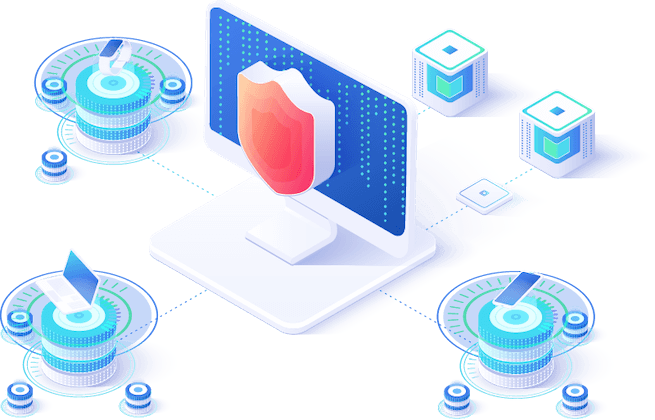
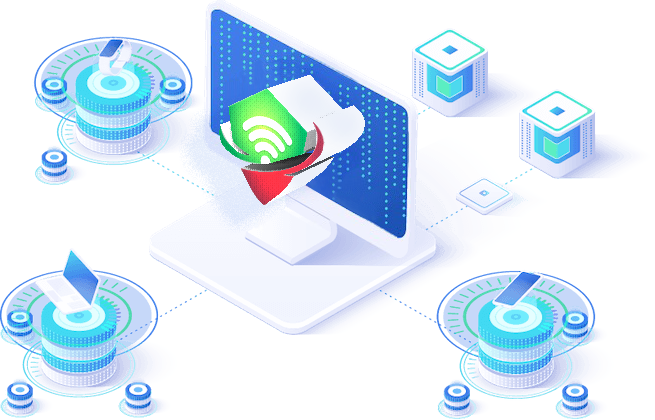
Update on home page

Changed region(s): [[0.2748, 0.0, 0.6412, 0.5571]]

diff --git a/resources/js/layouts/features.tsx b/resources/js/layouts/features.tsx
@@ -10,37 +10,37 @@ const featureList = [
     {
         icon: IconProtection,
         title: 'Powerful Protection',
-        description: 'Sed ut perspiciatis unde omnis iste natus error sit voluptatem accusantium doloremque',
+        description: 'Open-source code has fewer vulnerabilities and decreases the risk of data breaches.',
         overlay: 'linear-gradient(135deg, #febb97 0%, #f73e6e 100%)'
     },
     {
         icon: IconWorldwide,
         title: 'Borderless Connection',
-        description: 'Sed ut perspiciatis unde omnis iste natus error sit voluptatem accusantium doloremque',
+        description: ['24/7 customer support', 'Get customer support via live chat.'],
         overlay: 'linear-gradient(315deg, #2058ba 0%, #41d9f2 100%)'
     },
     {
         icon: IconDevice,
         title: 'Up to 6 Devices',
-        description: 'Sed ut perspiciatis unde omnis iste natus error sit voluptatem accusantium doloremque',
+        description: 'Get simultaneous access to 6 devices with only one subscription',
         overlay: 'linear-gradient(135deg, #3fdbb1 0%, #26b6cb 100%)'
     },
     {
         icon: IconSecurity,
         title: 'Advanced Security',
-        description: 'Sed ut perspiciatis unde omnis iste natus error sit voluptatem accusantium doloremque',
+        description: 'We won’t record IP addresses, accessed websites, Browsing histories, VPN server connections.',
         overlay: 'linear-gradient(135deg, #3fdbb1 0%, #26b6cb 100%)'
     },
     {
         icon: IconLog,
         title: 'No Log VPN',
-        description: 'Sed ut perspiciatis unde omnis iste natus error sit voluptatem accusantium doloremque',
+        description: 'We don’t monitor or record any data about your internet traffic.',
         overlay: 'linear-gradient(135deg, #febb97 0%, #f73e6e 100%)'
     },
     {
         icon: IconAnonymous,
         title: 'Surf Anonymously',
-        description: 'Sed ut perspiciatis unde omnis iste natus error sit voluptatem accusantium doloremque',
+        description: 'Pay with cryptocurrency and keep your privacy protected.',
         overlay: 'linear-gradient(315deg, #2058ba 0%, #41d9f2 100%)'
     }
 ];
@@ -66,7 +66,9 @@ export default function Features() {
                                         <img src={item.icon} alt={item.title} className="mx-auto mb-6" />
                                     </div>
                                     <h4 className="text-2xl font-bold text-white mb-9">{item.title}</h4>
-                                    <p className="text-white">{item.description}</p>
+                                    {Array.isArray(item.description) ? item.description.map((line: string, index: number) => (
+                                        <p key={index} className="text-white">{line}</p>
+                                    )) : <p className="text-white">{item.description}</p>}
                                 </div>
                             </div>
                         );

diff --git a/resources/js/layouts/mechanism.tsx b/resources/js/layouts/mechanism.tsx
@@ -6,18 +6,18 @@ import { css } from '@emotion/css';
 
 const steps = [
     {
-        title: 'Download',
-        description: 'Sed ut perspiciatis unde omnis iste natus',
+        title: 'Purchase your plan',
+        description: 'pick the plan that suits you',
         bgGradient: 'linear-gradient(135deg, #febb97 0%, #f73e6e 100%)'
     },
     {
-        title: 'Connect',
-        description: 'Sed ut perspiciatis unde omnis iste natus',
+        title: 'Download the app',
+        description: 'choose the right app for your device',
         bgGradient: 'linear-gradient(315deg, #2058ba 0%, #41d9f2 100%)'
     },
     {
-        title: 'Enjoy',
-        description: 'Sed ut perspiciatis unde omnis iste natus',
+        title: 'Connect',
+        description: 'turn on the VPN and enjoy',
         bgGradient: 'linear-gradient(135deg, #3fdbb1 0%, #26b6cb 100%)'
     }
 ];
@@ -62,7 +62,7 @@ export default function Mechanism() {
                 </div>
                 <div className="flex items-center rounded-3xl shadow-[0_4px_12px_0_rgba(0,0,0,0.06)] pt-10 pb-14 px-14">
                     <div className="flex-1 min-w-0 text-left">
-                        <h2 className="text-[40px] leading-[50px] text-[#272e36] font-bold mb-5">Get JupiterX VPN</h2>
+                        <h2 className="text-[40px] leading-[50px] text-[#272e36] font-bold mb-5">Get 123MyVPN</h2>
                         <h5 className="text-xl">Download to get private & secure Internet</h5>
                     </div>
                     <div>

diff --git a/resources/js/layouts/about.tsx b/resources/js/layouts/about.tsx
@@ -12,8 +12,7 @@ export default function About() {
                         <h3 className="section-title">Apps</h3>
                         <h2 className="section-description mb-10">Protect all your Devices</h2>
                         <p className="text-[#7A7A7A] font-regular">
-                            Lorem ipsum dolor sit amet consectetur adipisicing elit. Ullam ipsa voluptas pariatur facilis porro?
-                            Architecto repudiandae facere explicabo voluptatem officiis.
+                        Protect your Windows, Mac, iOS, and Android. And you can secure up to 6 devices for the ultimate safeguard against any malicious threats.
                         </p>
 
                         <div className="flex items-center justify-between mt-auto pb-6">

diff --git a/resources/js/layouts/footer.tsx b/resources/js/layouts/footer.tsx
@@ -26,10 +26,6 @@ const footerLinks = [
                 href: '/'
             },
             {
-                name: 'Blog',
-                href: '/'
-            },
-            {
                 name: 'Support',
                 href: '/'
             }
@@ -53,10 +49,6 @@ const footerLinks = [
             {
                 name: 'VPN for Windows',
                 href: '/'
-            },
-            {
-                name: 'VPN for Linux',
-                href: '/'
             }
         ]
     },
@@ -77,10 +69,6 @@ const footerLinks = [
             },
             {
                 name: 'Contact Us',
-                href: '/'
-            },
-            {
-                name: 'Guarantee',
                 href: '/'
             }
         ]

diff --git a/resources/js/layouts/servers.tsx b/resources/js/layouts/servers.tsx
@@ -22,8 +22,7 @@ export default function Servers() {
                         <h3 className="section-title">Servers</h3>
                         <h2 className="section-description">Huge global network of fast VPN servers</h2>
                         <p className="text-[#7A7A7A] font-regular mb-14">
-                            Sed ut perspiciatis unde omnis iste natus error sit voluptatem accusantium doloremque laudantium,
-                            totam rem aperiam, eaque ipsa quae ab illo inventore veritatis et quasi architecto beatae vitae.
+                            <br />Access NextGen Servers in 91 Countries and <br />Connect to our global server network.
                         </p>
 
                         <div className="grid grid-cols-2">
